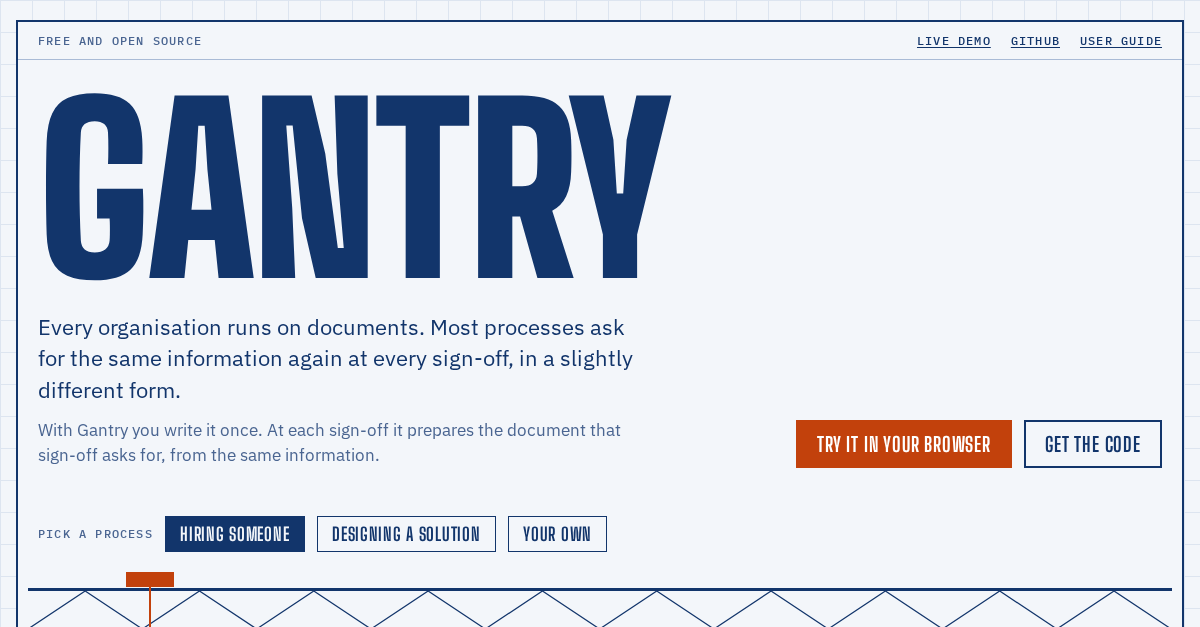
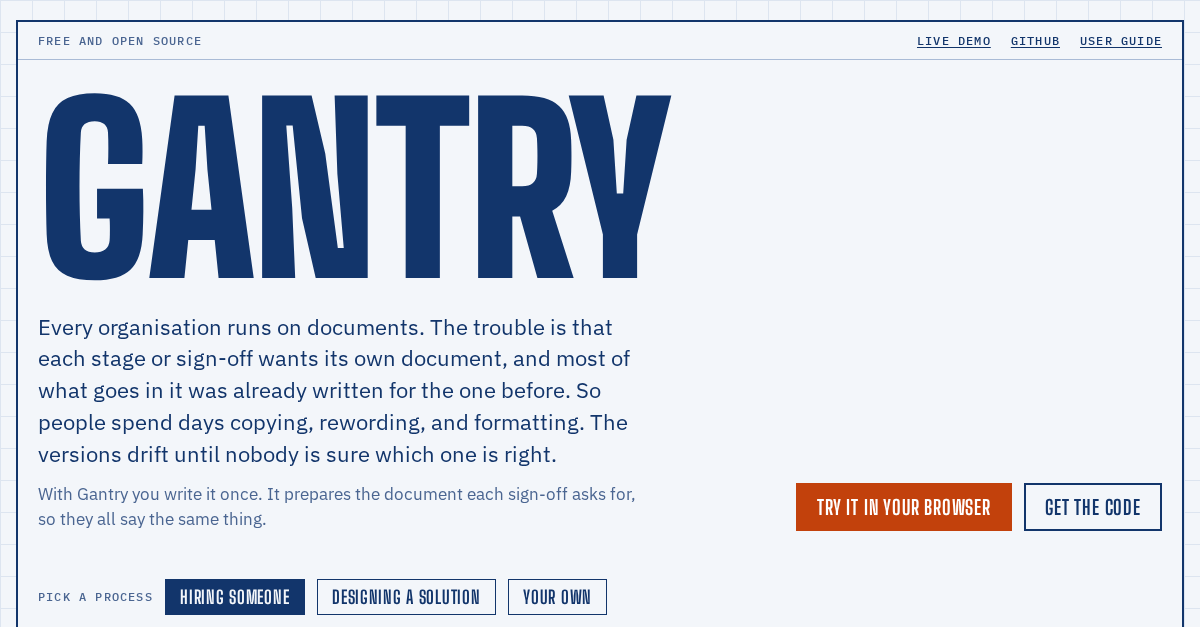
The splash page now says why rewriting the same information at every sign-off hurts (days of copying, and versions that drift), and link previews describe Gantry in plain English
Claude-Session: https://claude.ai/code/session_01LrNCncKxr6VeHMRQbNG8rD

diff --git a/site/index.html b/site/index.html
@@ -4,11 +4,11 @@
 <meta charset="UTF-8">
 <meta name="viewport" content="width=device-width, initial-scale=1.0">
 <title>Gantry: write it once, and every sign-off gets its document</title>
-<meta name="description" content="Gantry turns the evidence you gather into the documents a gated process asks for. Free and open source.">
+<meta name="description" content="Write it once, and Gantry prepares the document each sign-off asks for. Free and open source.">
 <meta property="og:type" content="website">
 <meta property="og:url" content="https://cgbarlow.github.io/gantry/">
 <meta property="og:title" content="Gantry: write it once, and every sign-off gets its document">
-<meta property="og:description" content="Gantry turns the evidence you gather into the documents a gated process asks for. Free and open source.">
+<meta property="og:description" content="Write it once, and Gantry prepares the document each sign-off asks for. Free and open source.">
 <meta property="og:image" content="https://cgbarlow.github.io/gantry/preview.png">
 <meta property="og:image:width" content="1200">
 <meta property="og:image:height" content="627">
@@ -139,8 +139,8 @@ h1 { font: 900 clamp(4.5rem, 19vw, 15rem)/0.8 var(--font-display); letter-spacin
     <h1>Gantry</h1>
     <div class="claim">
       <div>
-        <p>Every organisation runs on documents. Most processes ask for the same information again at every sign-off, in a slightly different form.</p>
-        <p>With Gantry you write it once. At each sign-off it prepares the document that sign-off asks for, from the same information.</p>
+        <p>Every organisation runs on documents. The trouble is that each stage or sign-off wants its own document, and most of what goes in it was already written for the one before. So people spend days copying, rewording, and formatting. The versions drift until nobody is sure which one is right.</p>
+        <p>With Gantry you write it once. It prepares the document each sign-off asks for, so they all say the same thing.</p>
       </div>
       <div class="actions">
         <a class="btn primary" href="https://gantry.chrisbarlow.nz">Try it in your browser</a>
